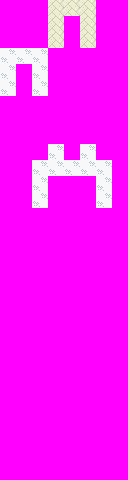
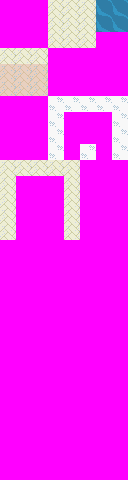
Soulkeep graveyard WIP + stuff

Changed region(s): [[0.0, 0.0938, 1.0, 0.5], [0.75, 0.0, 1.0, 0.0938], [0.5, 0.0312, 0.625, 0.125]]

diff --git a/include/config/overworld.h b/include/config/overworld.h
@@ -31,7 +31,7 @@
 
 #define OW_BERRY_MUTATIONS             FALSE      // If enabled, Berry plants can mutate based on berries planted next to them.
 #define OW_BERRY_MUTATION_CHANCE       25         // Determines the % chance of a mutation.
-#define OW_BERRY_MOISTURE              TRUE       // If enabled, Berry watering is not a matter of watering it once per stage, but rather of keeping the soil moist.
+#define OW_BERRY_MOISTURE              FALSE       // If enabled, Berry watering is not a matter of watering it once per stage, but rather of keeping the soil moist.
 #define OW_BERRY_ALWAYS_WATERABLE      FALSE      // If OW_BERRY_MOISTURE is enabled, this setting allows the player to continuously water soil; dry soil will cause a decrease in Berry Yield (like Gen4). When off, soil can only be watered when dry and watering increases yield (like Gen6).
 #define OW_BERRY_MULCH_USAGE           FALSE      // If enabled, Mulch can be used on soil to fertilize it. Otherwise, it is considered unusable. Note that moisture effects only work with OW_BERRY_MOISTURE enabled!
 #define OW_BERRY_WEEDS                 FALSE      // If enabled, weeds may grow on Berry plants that the player needs to take care of. Without OW_BERRY_MOISTURE, weeding bonuses are rounded down.

diff --git a/include/constants/map_groups.h b/include/constants/map_groups.h
@@ -84,6 +84,7 @@
 #define MAP_SCENIC_ROUTE                          (75 | (0 << 8))
 #define MAP_NEW_MAP1                              (76 | (0 << 8))
 #define MAP_HARVEST_SHRINE                        (77 | (0 << 8))
+#define MAP_SOULKEEP_GRAVEYARD                    (78 | (0 << 8))
 
 // gMapGroup_IndoorSunriseVillage
 #define MAP_LITTLEROOT_TOWN_BRENDANS_HOUSE_1F             (0 | (1 << 8))

diff --git a/include/constants/layouts.h b/include/constants/layouts.h
@@ -480,5 +480,6 @@
 #define LAYOUT_SCENIC_ROUTE 473
 #define LAYOUT_NEW_MAP1 474
 #define LAYOUT_HARVEST_SHRINE 475
+#define LAYOUT_SOULKEEP_GRAVEYARD 476
 
 #endif // GUARD_CONSTANTS_LAYOUTS_H
